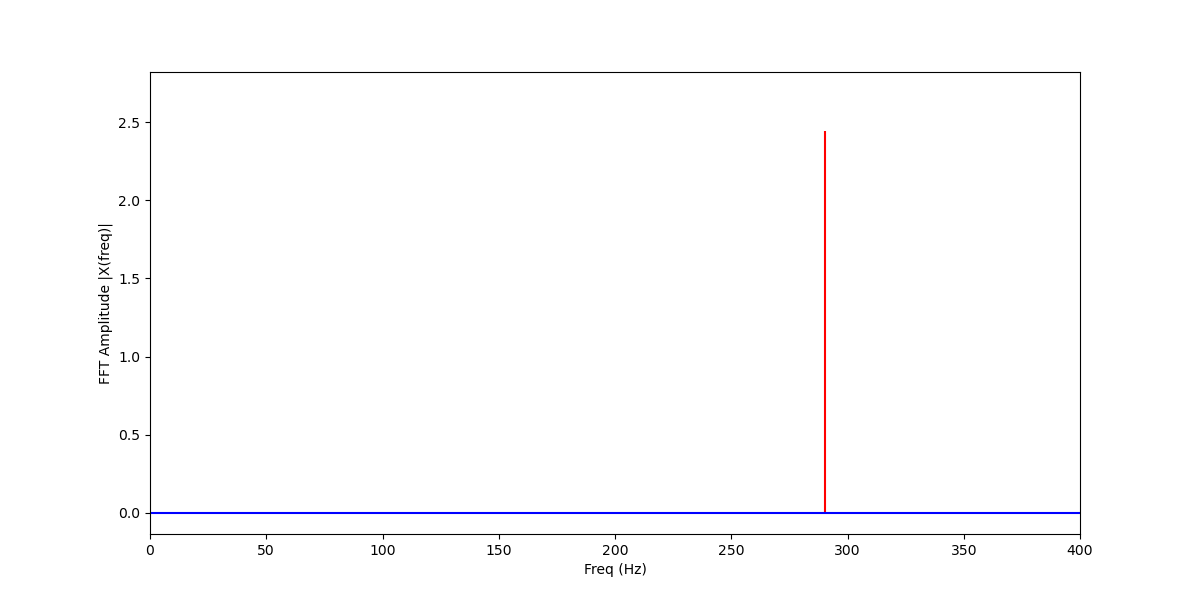
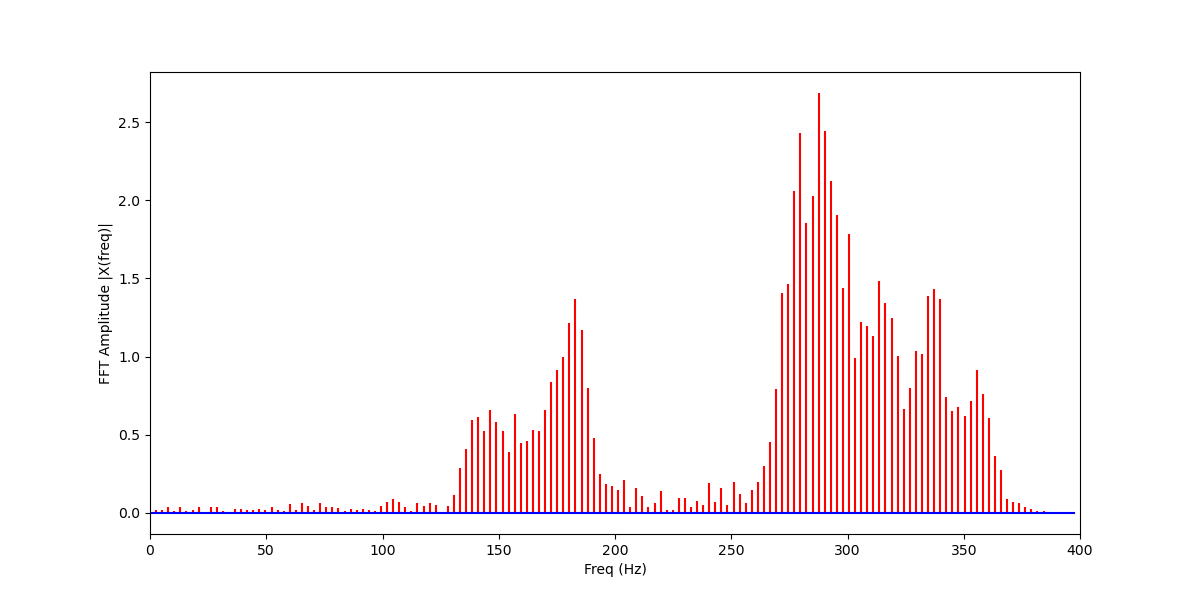
PROGRESS + UNDERSTANDING + COMMENTS TO MAKE SURE IT STAYS THAT WAY

Changed region(s): [[0.37, 0.3, 0.8633, 0.87], [0.3083, 0.84, 0.3392, 0.87], [0.2467, 0.84, 0.2775, 0.87]]

diff --git a/numpy_fft.py b/numpy_fft.py
@@ -4,12 +4,10 @@ import matplotlib.pyplot as plt
 import librosa
 import librosa.display
 
-max_freq = dict()
+max_freqs = dict()
 
 def mod_plots(name):
     sr = 800
-    ts = 1/sr
-    t = np.arange(0, 1, ts)
 
     x, sr = librosa.load('recordings/{}.m4a'.format(name), sr = sr)
     arr = np.where(x >= 0.01) #thresholding the signal to find values that contain speech
@@ -18,53 +16,58 @@ def mod_plots(name):
     # plt.title("Waveform: {}".format(name))
     # plt.savefig('graphs/waveform/{}_threshold.png'.format(name))
 
-    offset = arr[0][0]
+    x = x[arr[0][0]:arr[0][-1]] #updating array to only include thresholded signal
 
-    x = x[arr[0][0]:arr[0][-1]]
+    # FFT PYTHON CALCULATION WORKFLOW:
+    # DFT of signal calculated with FFT
+    # the unit for the kth index is a frequency in terms of (k cycles/N samples) where N is the length of the signal
+        # for example, the 100th value of fft(signal) represents the prominence of the frequency (100 cycles/ N samples)
+        # or alternatively (100/N cycles/ 1 sample) in the sinusoidal construction of the signal
+    # in order to convert (k cycles/N samples) into Hz, we multiply by the sampling rate (sr samples / 1 seconds)
+        # we need to do this because we want to find the prominence of certain Hz values in the sinusoidal construction
+        # of the signal because the unit (cycles/samples) is not of any importance to us
+    # multiplying yields that the kth index of the FFT array represents the prominence of the frequency
+        #(sr * k cycles / N seconds) Hz in the sinusoidal construction of the signal
 
-    vals = fft(x) # FFT of signal
-    length = len(vals)
+    probabilities = fft(x) # take the FFT
+    length = len(probabilities)
+    print("Initial sample size (N): {}".format(length))
+    cycles_sample = np.arange(length) / length# construct the (cycles/sample) frequencies associated with each index of probabilities
 
-    n = np.arange(length)
-    T = length/sr
+    # AUTOMATED WITH np.fft.fftfreq
 
-    freq_bins = fftfreq(len(vals))[np.argmax(np.abs(vals))] #finds the bin placement of the highest frequency
-    MAX = np.abs(freq_bins*sr)
-    max_freq[name] = MAX
-    print("{} MAX: {}".format(name, MAX)) #most prevalent frequency
+    freqs_Hz = fftfreq(length, d=1/sr)
+    nyquist_limit = np.where(freqs_Hz < 0)[0][0] # last index at which the frequency is less than or equal to the Nyquist limit
+                                                # signal frequency distribution reflects about x = sr/2 after this point, pointless to graph/use
+    print("Nyquist limit index: {}".format(nyquist_limit))
+    freqs_Hz = freqs_Hz[:nyquist_limit]
+    probabilities = probabilities[:nyquist_limit]
+    print("N_halved: {}".format(len(probabilities)))
 
-    freq = n/T
-    # print("FREQ: {}".format(freq))
+    ind_max = np.argmax(np.abs(probabilities))  # find the position of the max probability in the FFT array
+    print("max index: {}".format(ind_max))
+    max_freq_Hz = (sr * ind_max) / length  # convert the frequency represented by that index from (cycles/sample) to (cycles/second)
+    max_freqs[name] = max_freq_Hz
 
-    # print(np.max(np.abs(vals)))
-    m_ind = np.argmax(np.abs(vals))
+    # OR YOU CAN DO IT WITH np.fft.fftfreq - both give the same answer as expected
 
-    # print("max_freq: {}".format(m_ind))
-    # print(" magnitude: {}".format(np.abs(vals[m_ind])))
-    # vals[31] = 0
-
-    m2_ind = np.where(vals == np.unique(vals)[-1])
-    # print("max_freq2: {}".format(m2_ind[0][0]))
-
-    v2 = np.zeros(length)
-    v2[m_ind] = np.abs(vals[m_ind])
-    v2[m2_ind] = np.abs(vals[m2_ind])
+    max_freq_Hz = freqs_Hz[ind_max]
+    max_freqs[name] = max_freq_Hz
+    print("{}'s Dominant Frequency: {} Hz".format(name, max_freq_Hz))
 
     plt.figure(figsize = (12, 6))
     # plt.subplot(121)
 
-    # plt.stem(freq, np.abs(vals), 'b', markerfmt=" ", basefmt="-b")
-    plt.stem(freq, np.abs(v2), 'r', markerfmt=" ", basefmt="-b") #graphing the max frequency in FFT for testing purposes
+    plt.stem(freqs_Hz, np.abs(probabilities), 'r', markerfmt=" ", basefmt="-b") #graphing the FFT
     plt.xlabel('Freq (Hz)')
     plt.ylabel('FFT Amplitude |X(freq)|')
     plt.xlim(0, sr/2) #Nyquist-Shannon and aliasing - disregard frequencies above sr/2
     plt.savefig('graphs/FFT/{}.png'.format(name))
     plt.show()
-    # print(vals)
 
 if __name__ == "__main__":
     mod_plots('sahil')
     mod_plots("ria")
     mod_plots("alex")
     mod_plots("anshul")
-    print(max_freq)
+    print(max_freqs)
